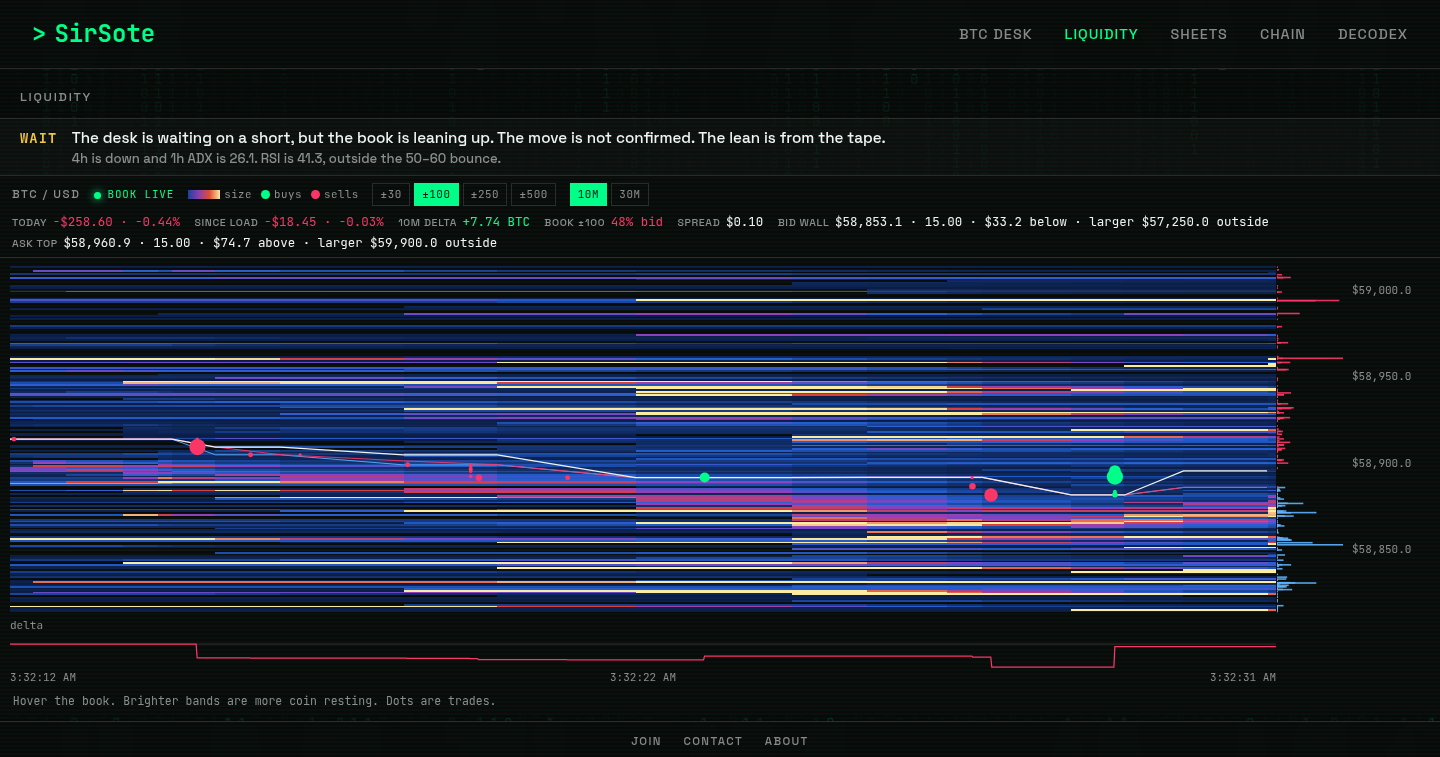
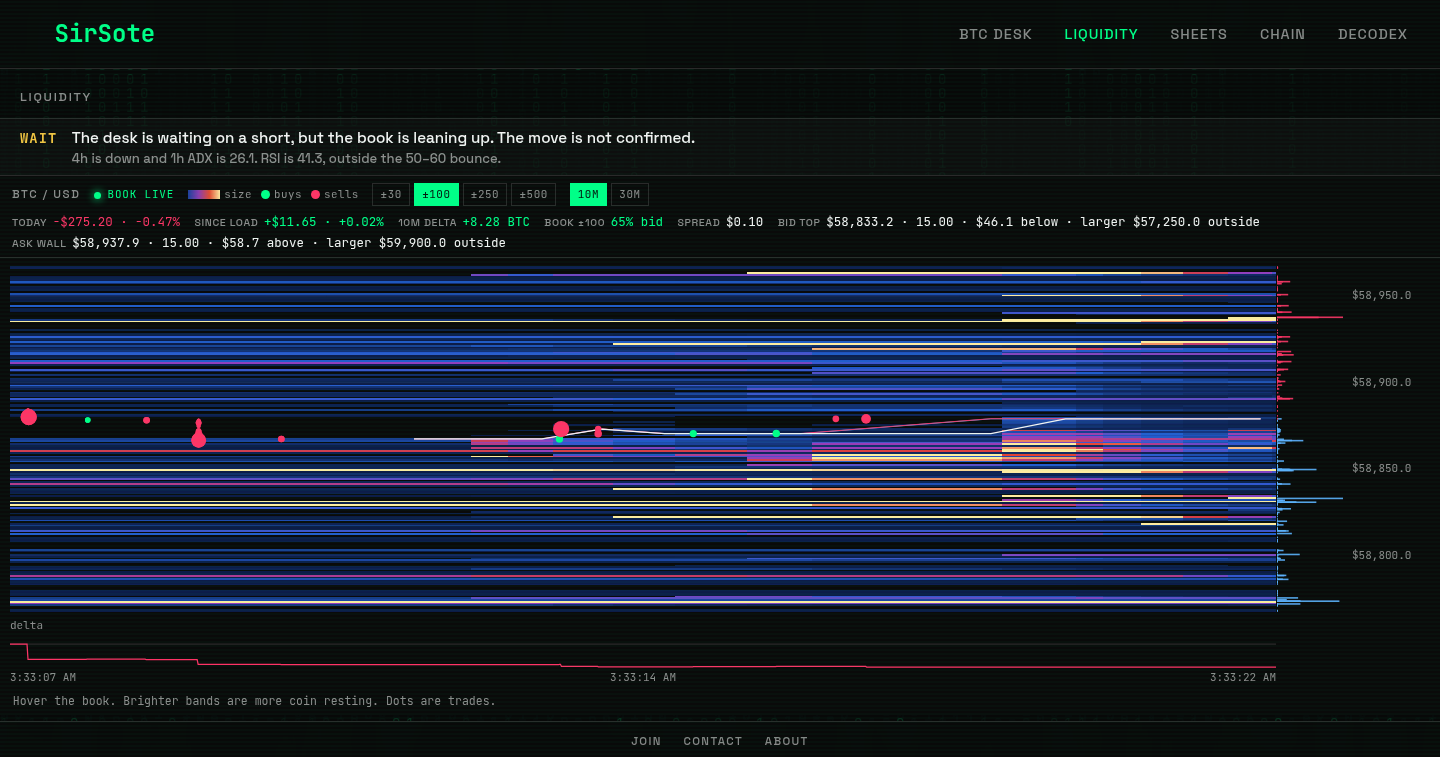
Update the sheet.

diff --git a/p/sheets/index.html b/p/sheets/index.html
@@ -30,13 +30,13 @@
     </header>
     <main>
         <article class="sheet">
-        <p class="sheet-kicker">BTC Desk · Update · <strong>3:32 AM MST</strong></p>
+        <p class="sheet-kicker">BTC Desk · Update · <strong>3:33 AM MST</strong></p>
         <dl class="lines">
             <div><dt>Day</dt><dd><span class="call wait">WAIT</span> · <span class="price">$59,013.60</span></dd></div>
             <div><dt>Swing</dt><dd><span class="call short">SHORT</span></dd></div>
             <div><dt>Hold</dt><dd><span class="call short">SHORT</span></dd></div>
         </dl>
-        
+        <p class="why">Book <span class="call short">fights the path</span></p>
         <p class="since">Unchanged since <strong>3:00 AM MST</strong></p>
         <p class="why">4h is down and 1h ADX is 26.1. RSI is 41.3, outside the 50–60 bounce.</p>
         
